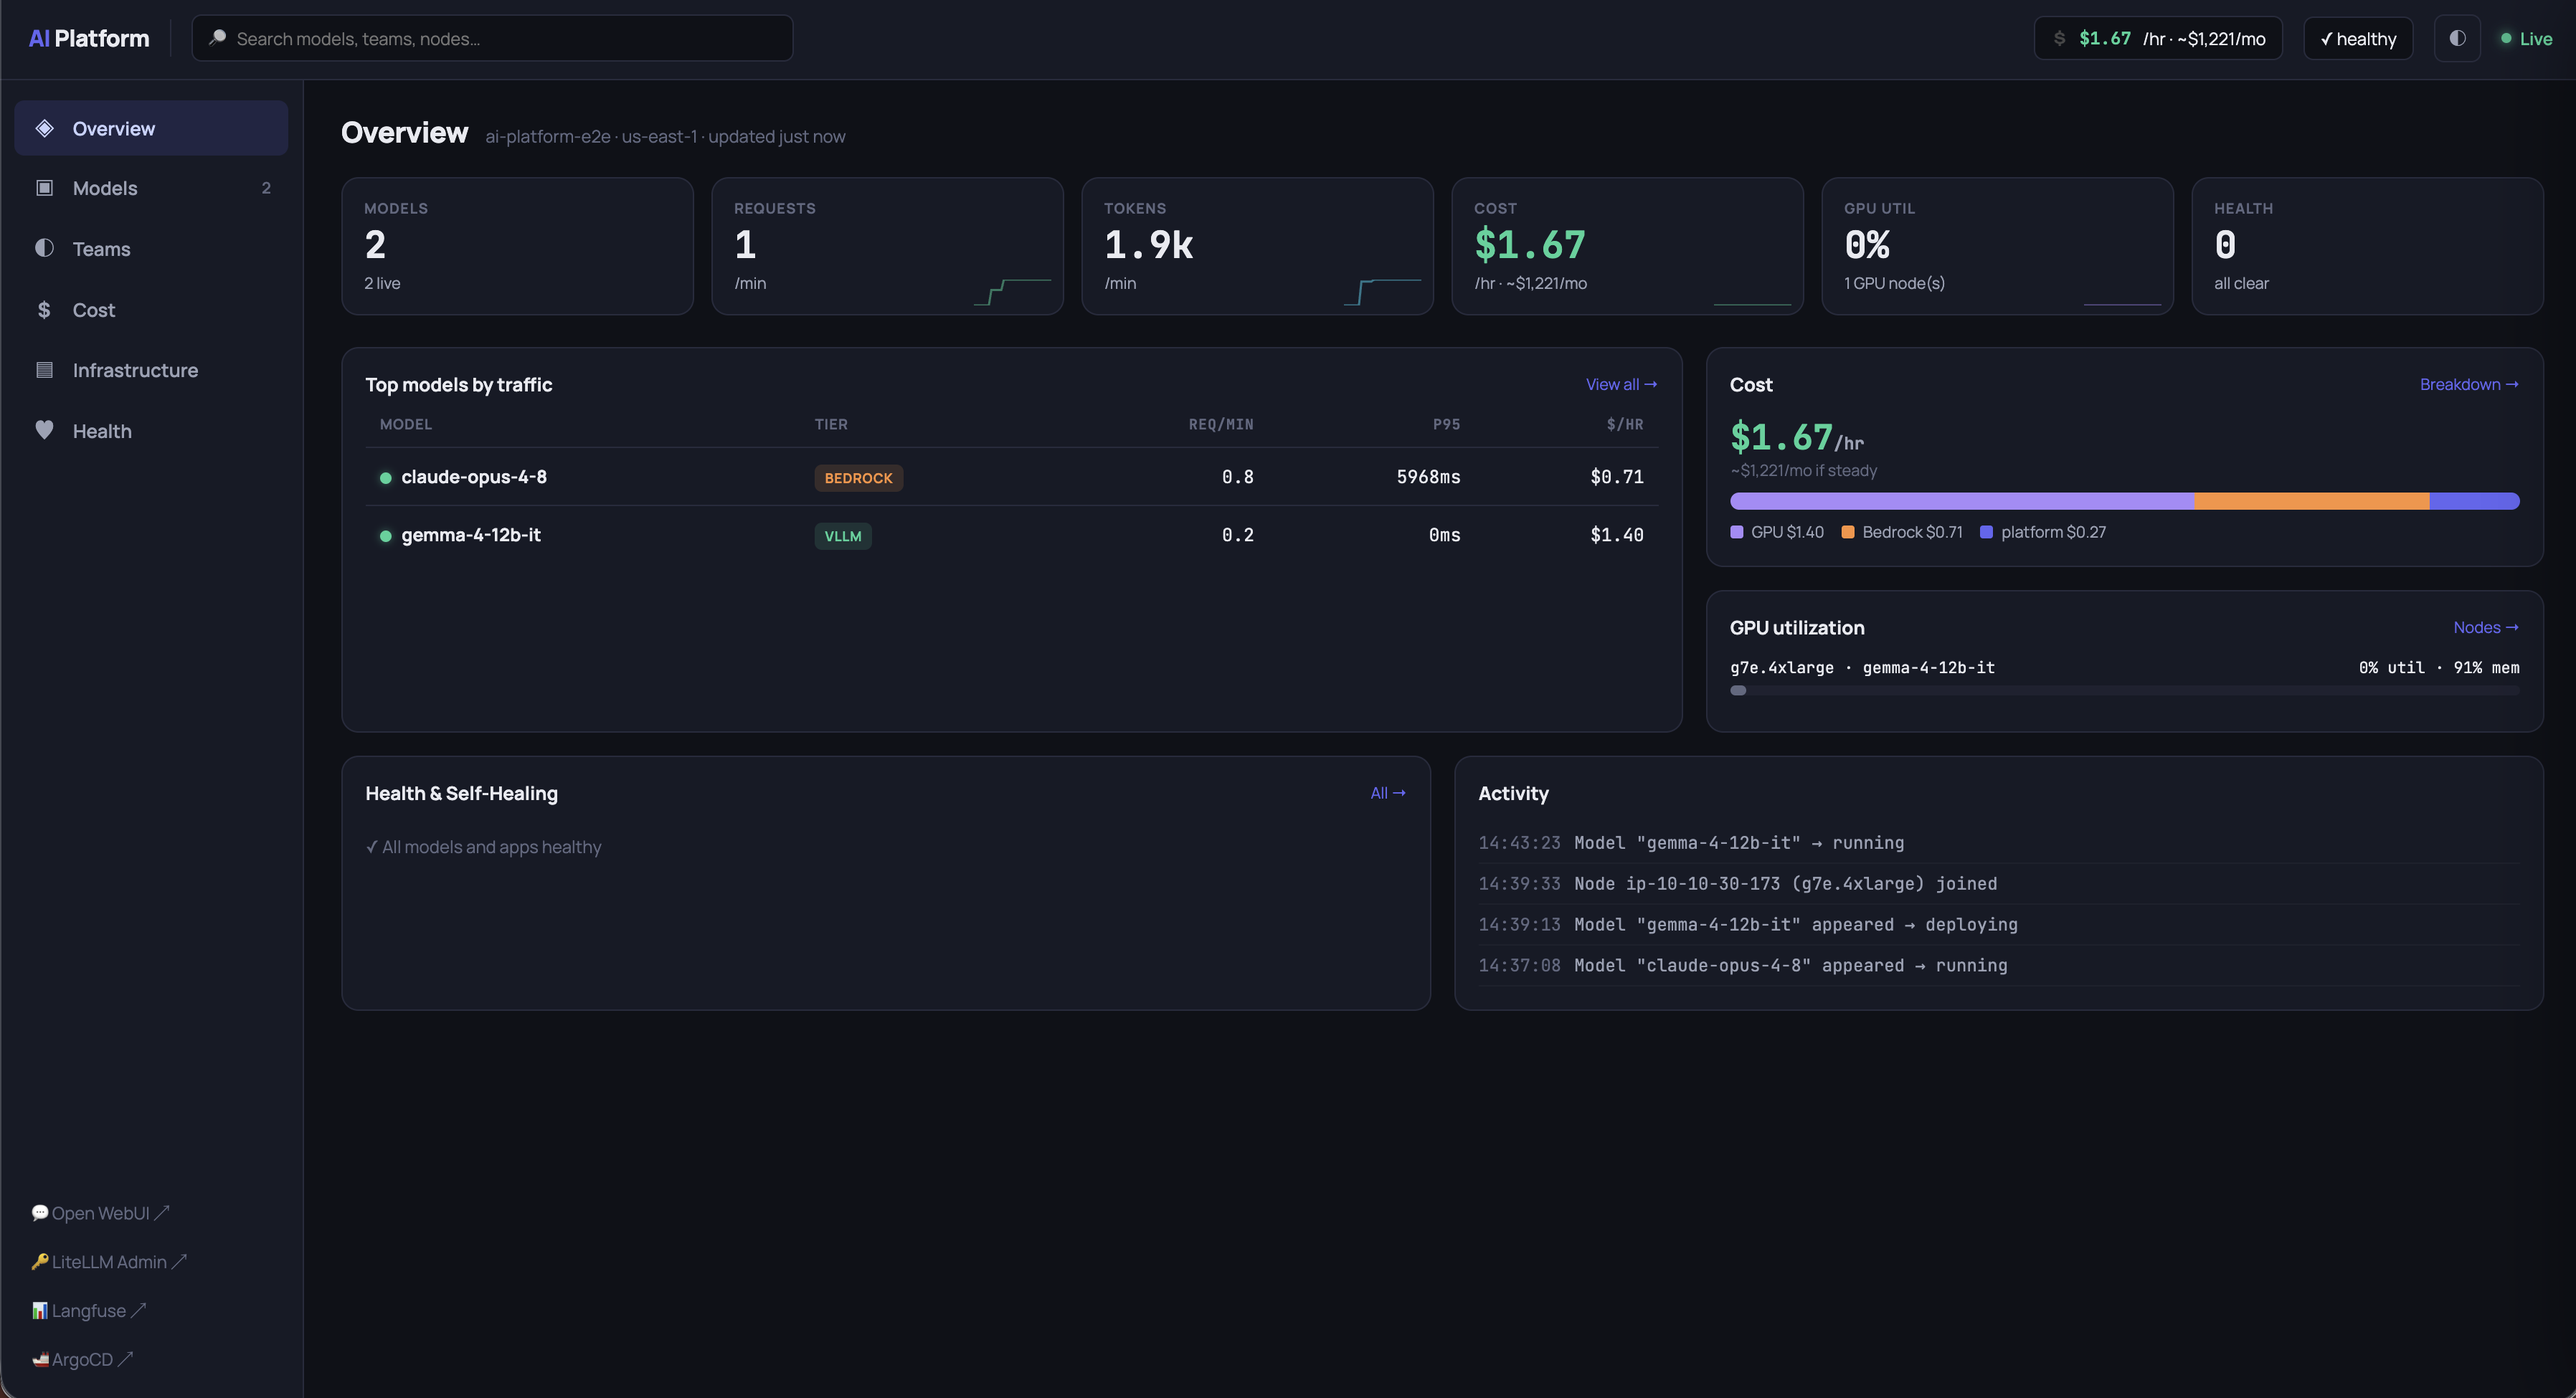
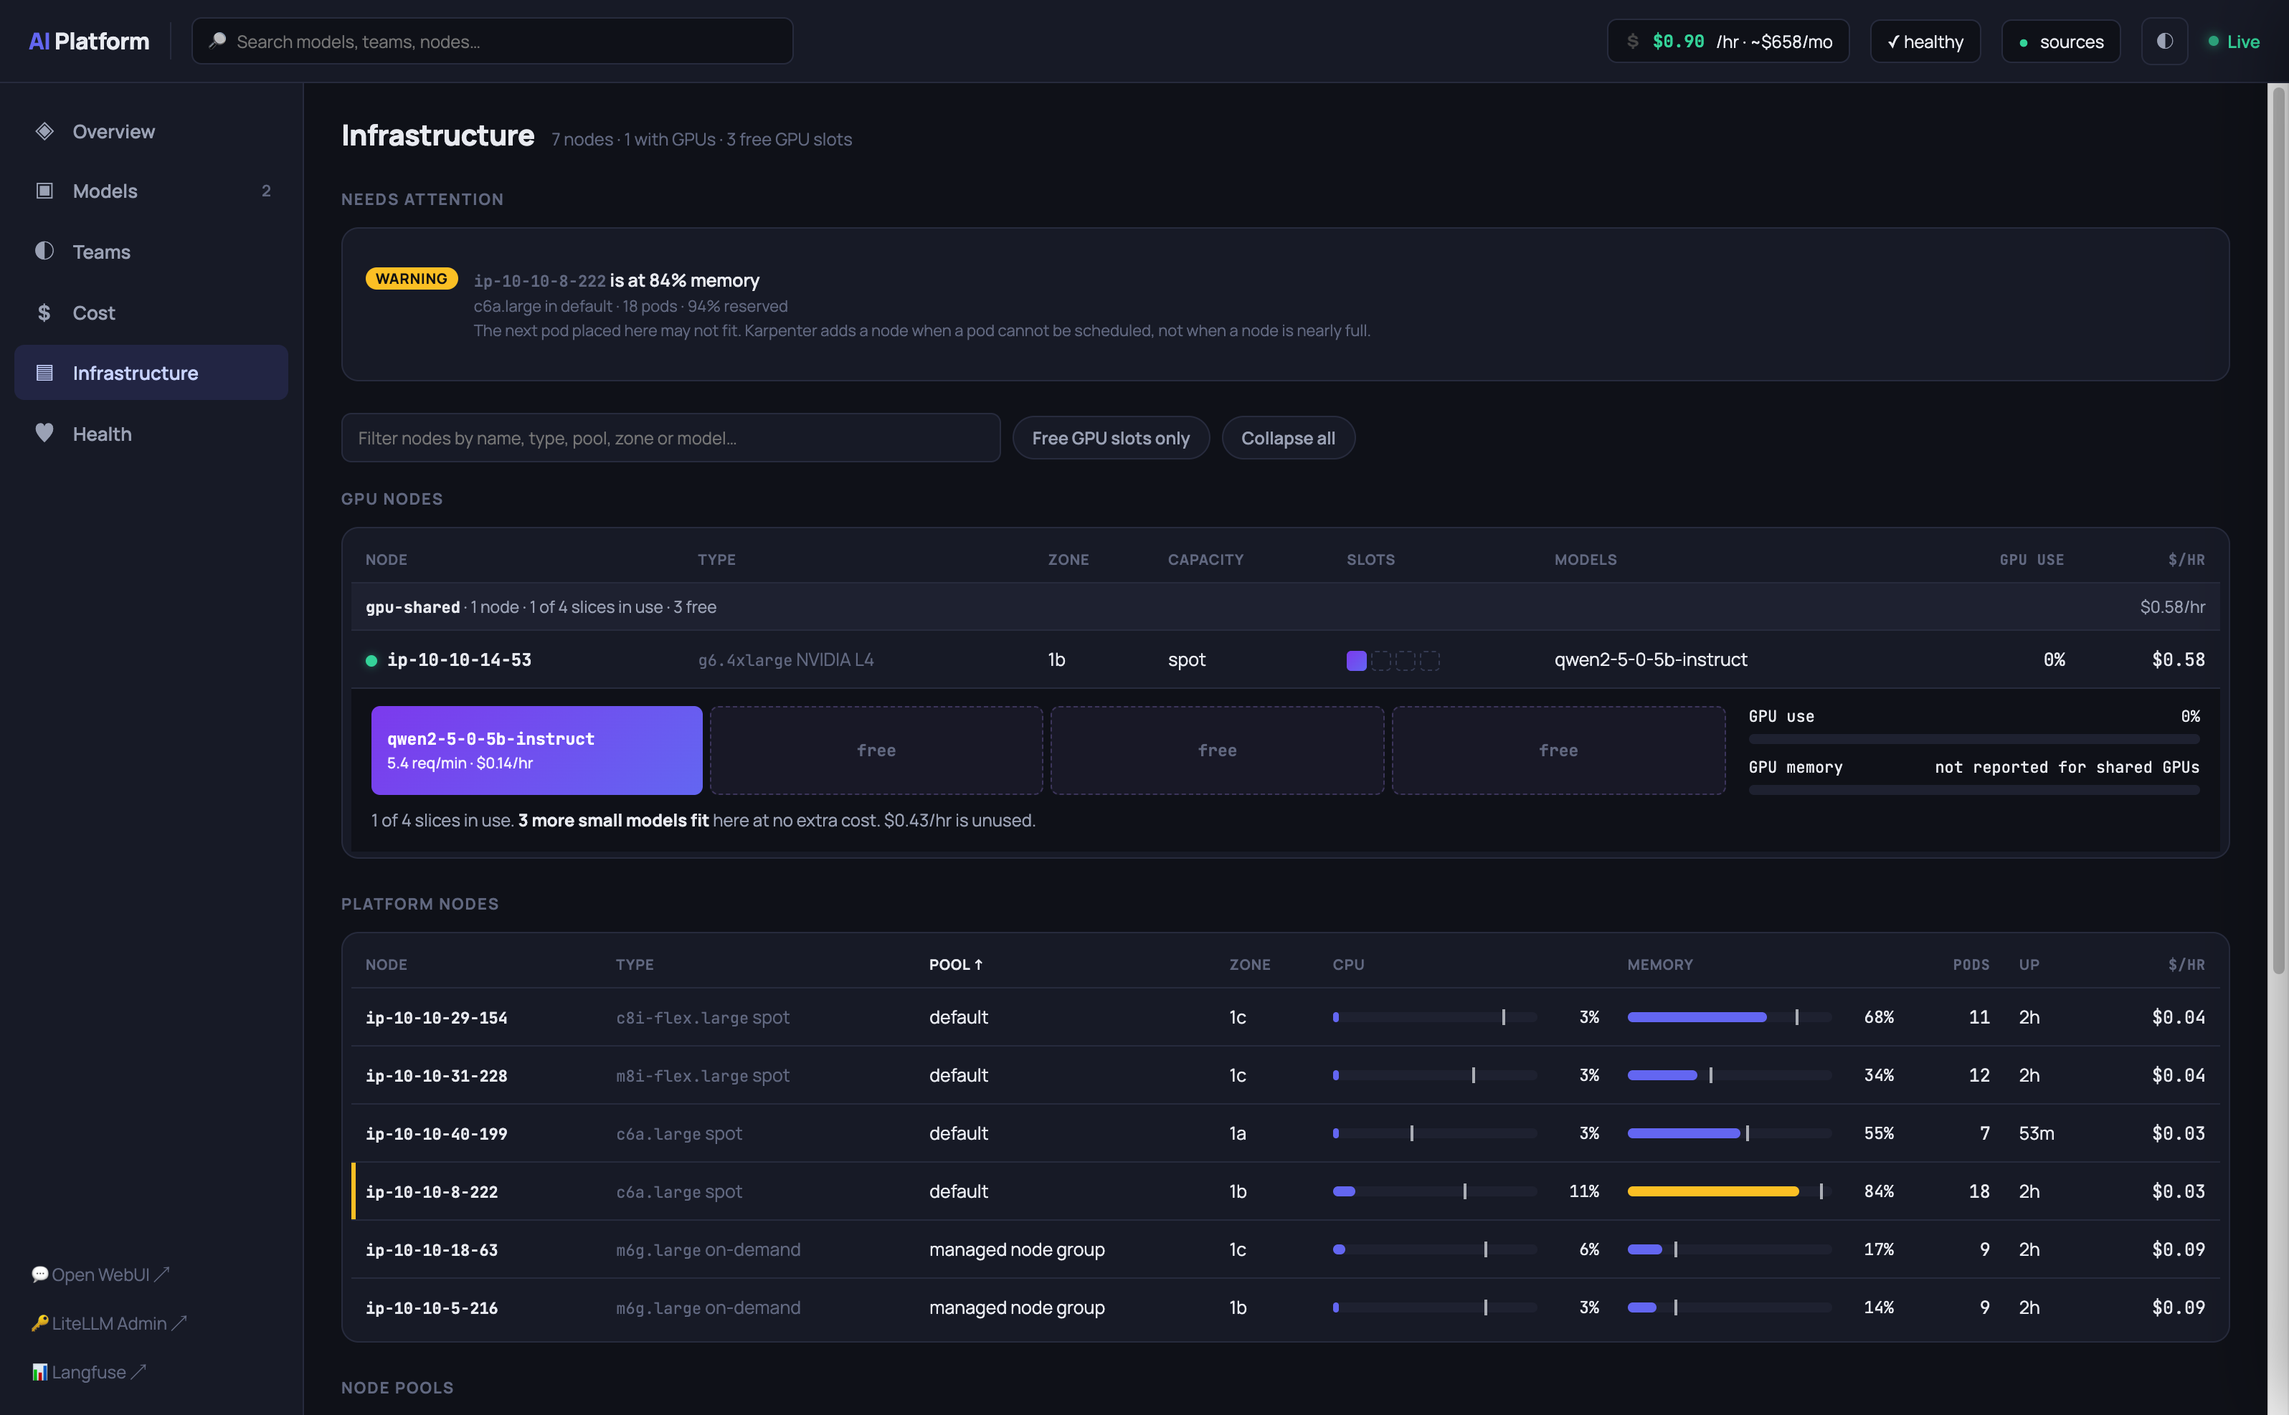
docs: show the new console in the README
The screenshot was of the previous dashboard. It now shows the
Infrastructure view, and one paragraph says what the console is.

diff --git a/README.md b/README.md
@@ -60,7 +60,11 @@ tracing apply uniformly - including the optional **llm-d** scale tier
 
 ### Custom Dashboard
 
-![Cluster dashboard - live topology of nodes, GPU slots, and deployed models](docs/img/cluster-dashboard.png)
+![Cluster dashboard, Infrastructure view - GPU nodes with their slots and the models on them, platform nodes, node pools](docs/img/cluster-dashboard.png)
+
+A live console with six views (Overview, Models, Teams, Cost, Infrastructure, Health).
+It updates as the cluster changes and shows the state of each data source it reads, so
+a missing number is never mistaken for a zero.
 
 ## Prerequisites
 
